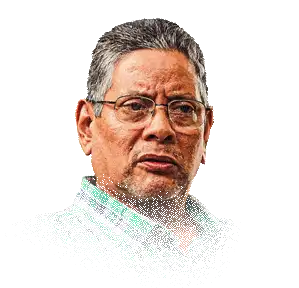
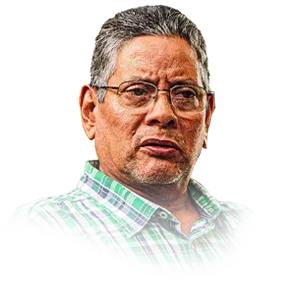
Actualizar portada y estilos

Changed region(s): [[0.1204, 0.0, 0.8127, 0.9375]]

diff --git a/src/style.css b/src/style.css
@@ -1854,7 +1854,7 @@ body.net-slow .drawer {
 
 .wib-ver-mas-mobile::after {
   content: 'ver más';
-  font-size: 14px;
+  font-size: 12px;
   font-weight: 700;
   letter-spacing: 0.06em;
   text-transform: uppercase;
@@ -2030,8 +2030,8 @@ body:has(#story-intro:not([hidden])) .top-bar {
 @media (max-width: 520px) {
   .story-intro__img-top {
     display: block;
-    width: 200px;
-    height: 230px;
+    width: 184px;
+    height: 212px;
     object-fit: cover;
     border-radius: 8px;
     margin: 0 auto 4px;
@@ -2173,10 +2173,10 @@ body:has(#story-intro:not([hidden])) .top-bar {
 
   .story-intro__content {
     padding: 16px 0;
-    gap: 16px;
+    gap: 11px;
     flex: 1 0 auto;
     width: 100%;
-    margin-top: -35px;
+    margin-top: -45px;
   }
 
   .story-intro__share {